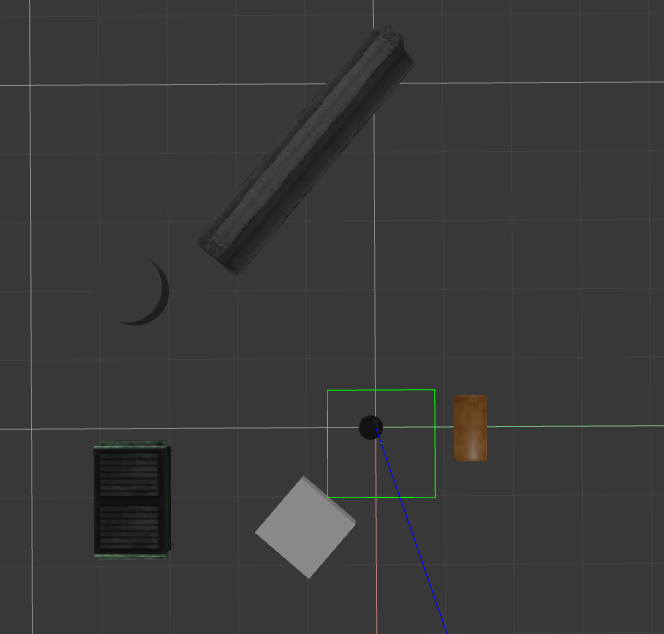
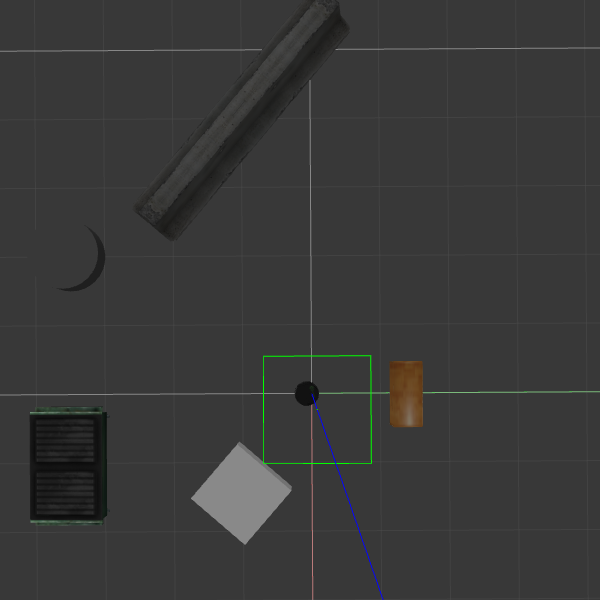
Resize images
Cropped and downsized a little to try to get them to line up in a row.

diff --git a/home_service_robot/README.md b/home_service_robot/README.md
@@ -16,7 +16,9 @@ Mapping creates a "memory" for the robot to understand where it has been before 
 
 However, in this project it was demonstrated by manually driving a robot around an environment with some objects in it. The pictures below (from left to right) show the robot in its environment, the map before creation, and a map after driving around the obstacles a little bit. If you'd like to check this out you can run the `test_slam.sh` shell script found in the scripts directory. 
 
-| ![alt text](images/gazebo_environment.png) | ![alt text](images/rviz_no_map.png) |  ![alt text](images/rviz_mapped.png) | 
+| environment | no map | map |
+| :---: | :---: | :---: |
+| ![](images/gazebo_environment.png) | ![](images/rviz_no_map.png) |  ![](images/rviz_mapped.png) | 
 
 ### Path Planning
 
